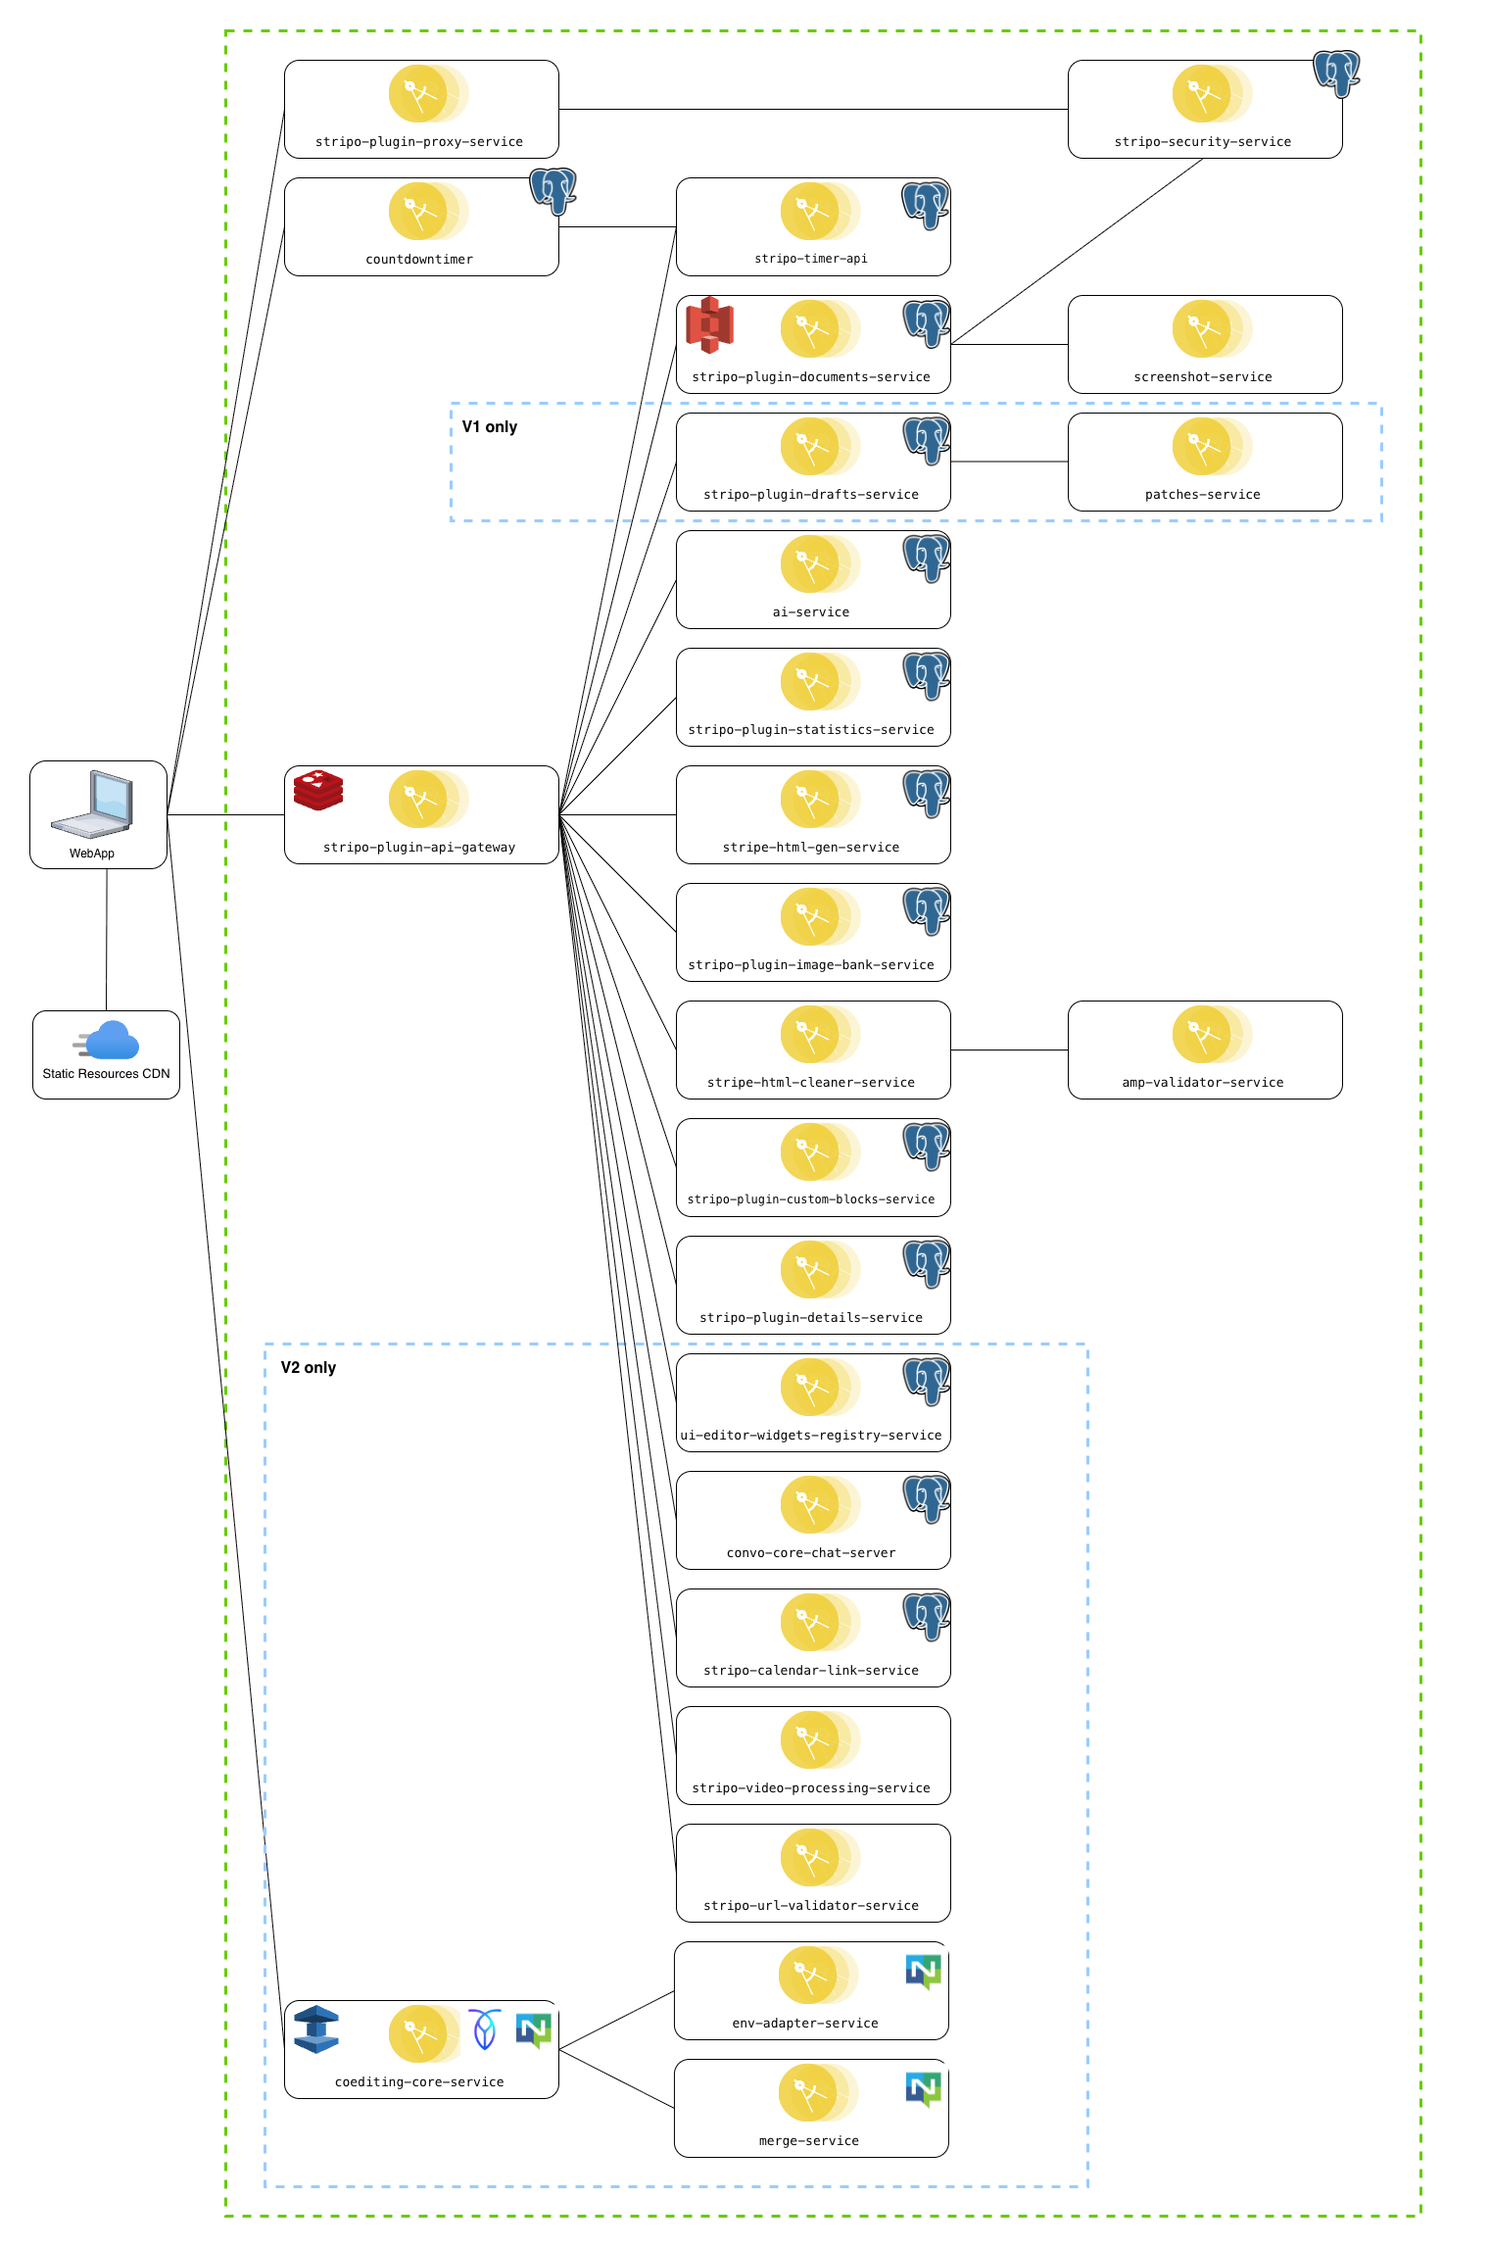
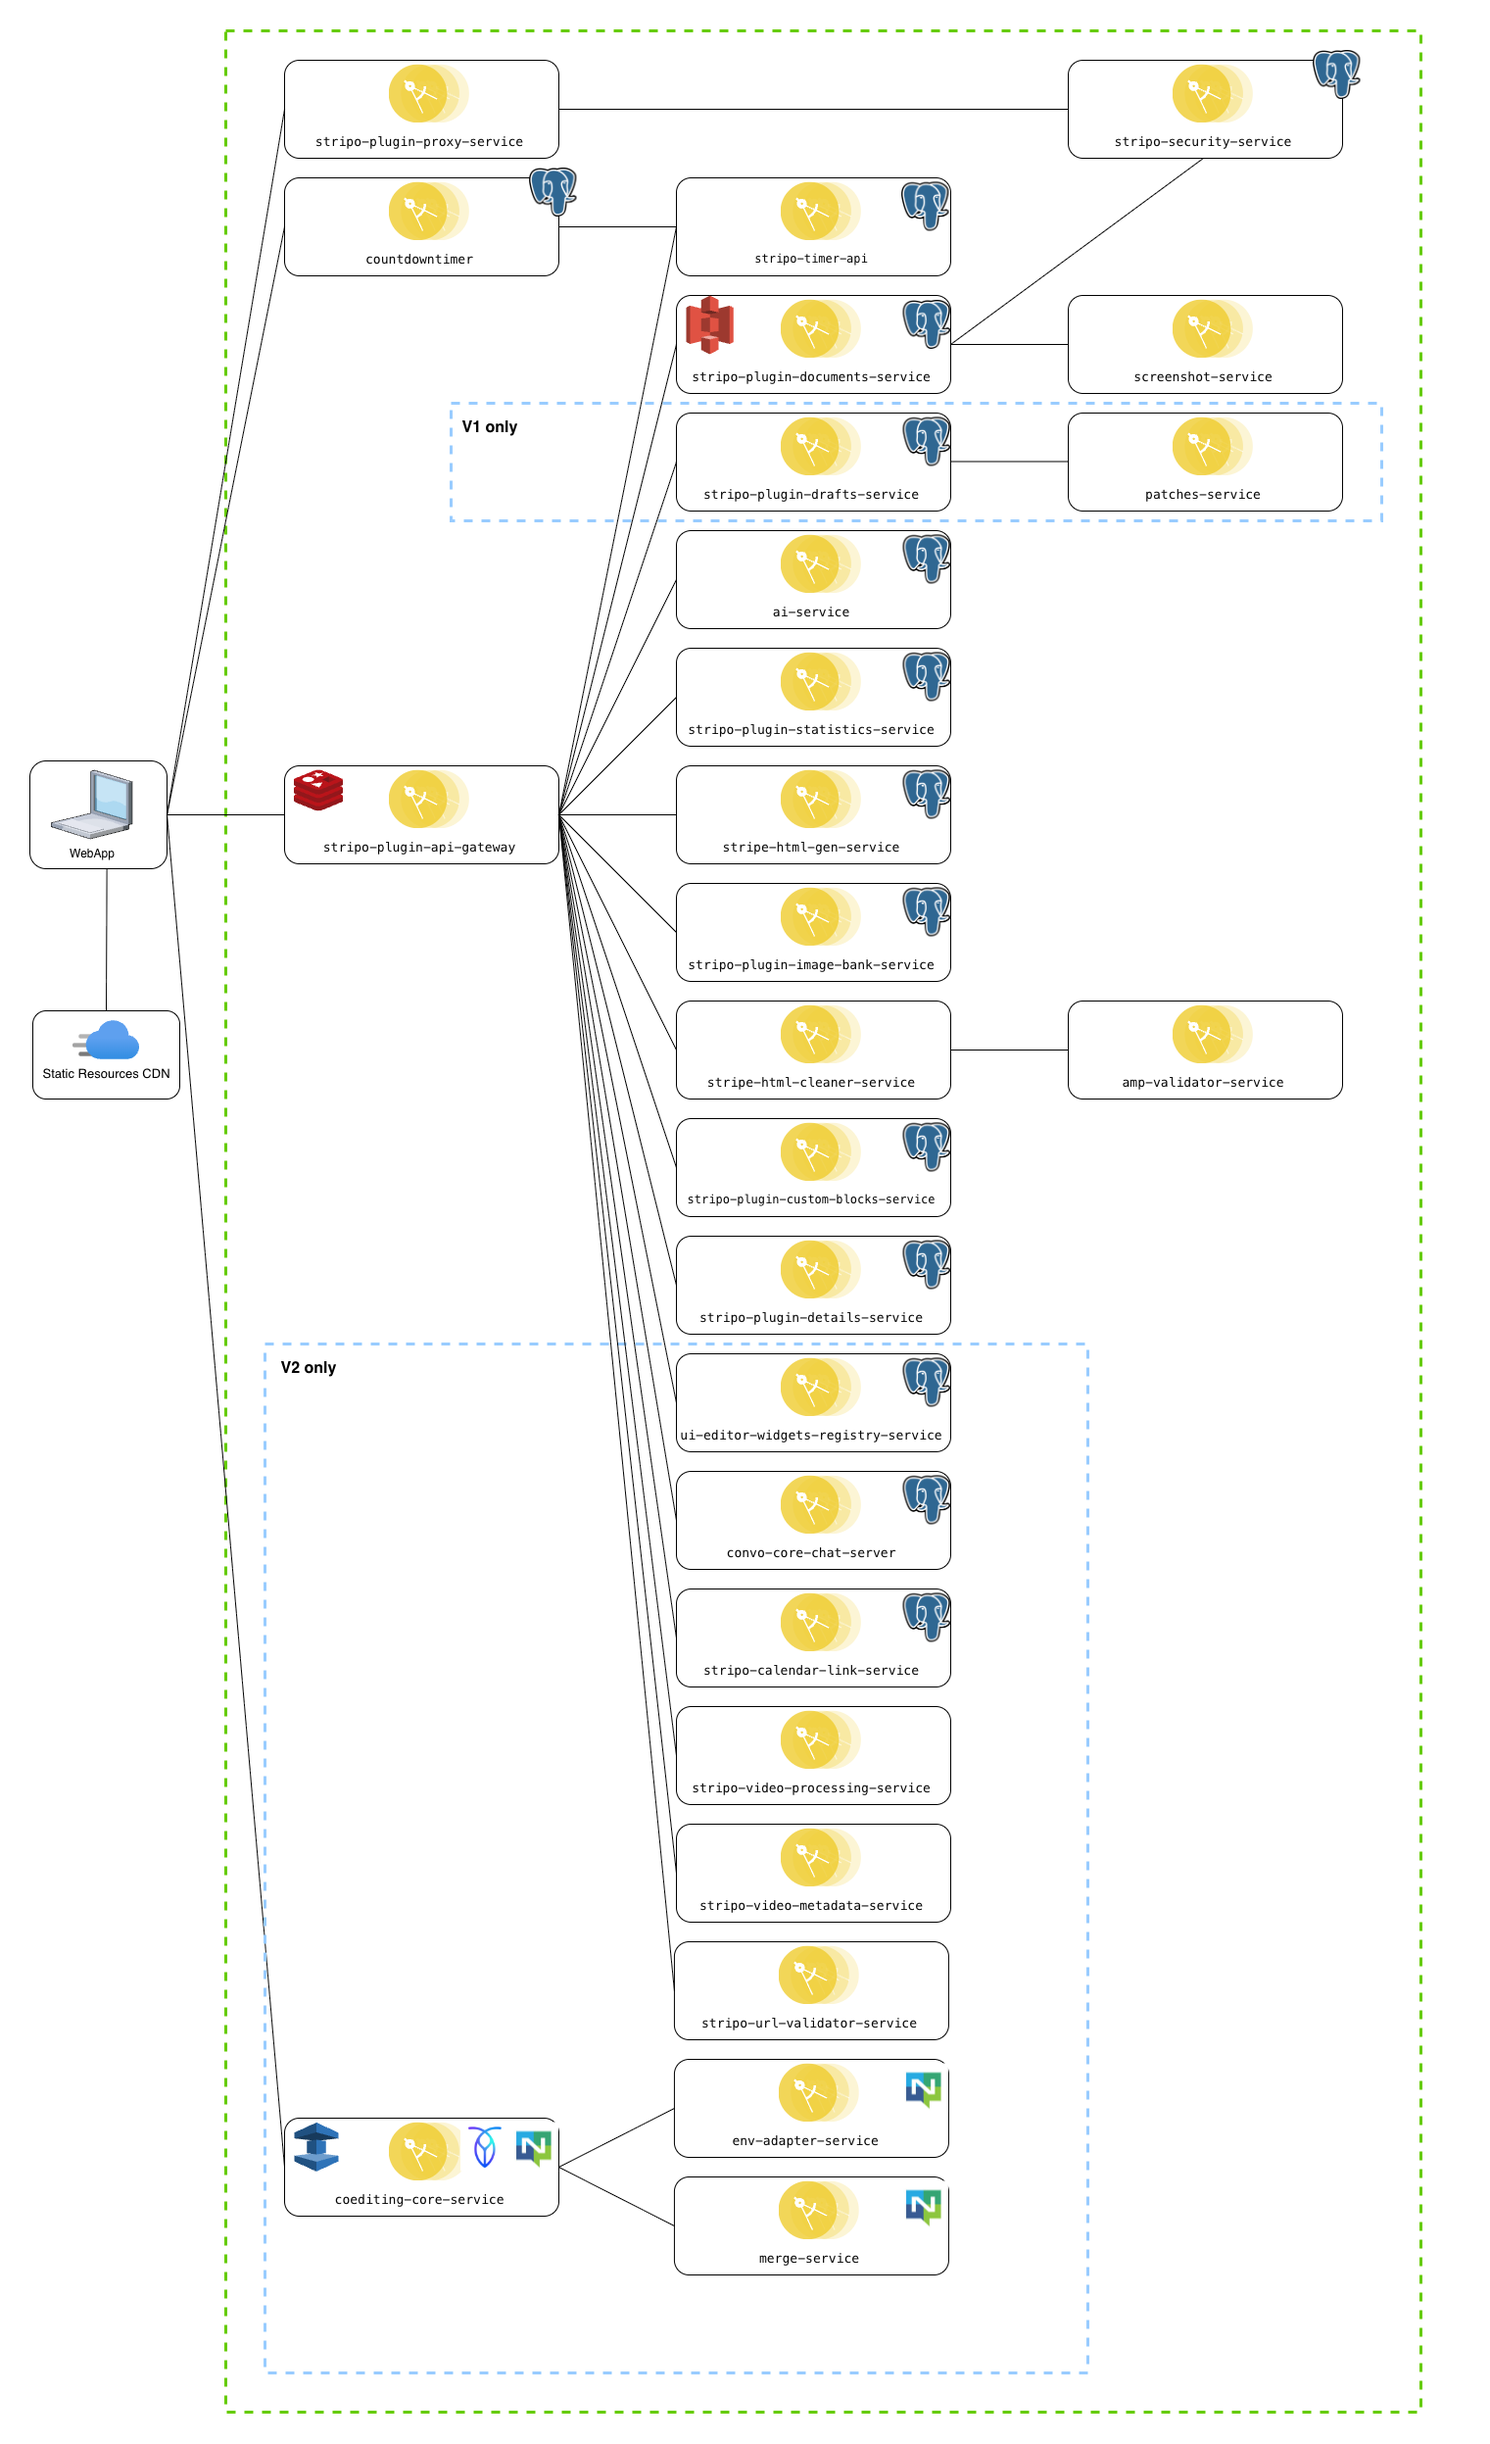
ED-9180 Add stripo-video-metadata-service for enterprise video link previews
https://ardas.atlassian.net/browse/ED-9180

Customer install for the required Editor V2 video-link thumbnail service, from release 2.82.1. Release 2.82.0 lists the service but its api-gateway image has no route.

diff --git a/README.md b/README.md
@@ -57,6 +57,9 @@
      - [Configure the URL Validator Service](#configure-the-url-validator-service)
      - [Route the API Gateway for the URL Checker](#route-the-api-gateway-for-the-url-checker)
      - [Open URL Checker in the Editor](#open-url-checker-in-the-editor)
+   - [Step 15: Configure Video link previews (for V2 only)](#step-15-configure-video-link-previews-for-v2-only)
+     - [Configure the Video Metadata Service](#configure-the-video-metadata-service)
+     - [Route the API Gateway for Video link previews](#route-the-api-gateway-for-video-link-previews)
 6. [Testing](#testing)
    - [Stripo Editor V1](#stripo-editor-v1)
    - [Stripo Editor V2](#stripo-editor-v2)
@@ -89,7 +92,7 @@ The Stripo ecosystem consists of several key components, each playing a crucial 
 
 ## Microservices Architecture Overview
 
-The Plugin infrastructure is composed of 22 microservices, each containerized using Docker. These Docker images are hosted in Stripo's Docker Hub repository. Enterprise plan partners are granted read-only access to this repository, allowing them to download the required images with specific versions when they choose to host the Plugin Backend on their own servers.
+The Plugin infrastructure is composed of 26 microservices, each containerized using Docker. These Docker images are hosted in Stripo's Docker Hub repository. Enterprise plan partners are granted read-only access to this repository, allowing them to download the required images with specific versions when they choose to host the Plugin Backend on their own servers.
 
 ### Microservice Dependencies
 
@@ -130,6 +133,7 @@ The table below outlines the current microservices, their roles, and their requi
 | **stripo-calendar-link-service**        | Generates "Add to calendar" links (Google Calendar, Outlook, Apple/ICS, Yahoo) for date-related blocks. | false        | false           | true            |
 | **stripo-video-processing-service**     | Optional. Play-in-email for the Video block: upload an MP4; the editor generates a poster and an animated GIF (play-button overlay) as fallback. | false        | false           | false           |
 | **stripo-url-validator-service**        | Optional. URL Checker for Editor V2: checks links and image URLs from the email (HTTP status, redirects, shorteners, slow pages, and Google Web Risk when the customer sets a key). | false        | false           | false           |
+| **stripo-video-metadata-service**       | Required for Editor V2. Resolves a thumbnail and a title for a video link (YouTube, Vimeo, TikTok, Loom, and others). The Video block does not save a new link without it. | false        | false           | true            |
 
 ### Notes:
 
@@ -1373,6 +1377,85 @@ The control that opens the mode is part of the host application, not of the plug
 Deploy this service and set `service.urlvalidator.url` before users open the mode. Without the service, local checks still run and the server check fails.
 
 See [URL Checker](https://plugin.stripo.email/editor-configuration/url-checker).
+
+### Step 15: Configure Video link previews (for V2 only)
+
+The Video block in **Stripo Editor V2** asks `stripo-video-metadata-service` for the thumbnail and the title of a video link (YouTube, Vimeo, TikTok, Loom, and others). This service is **required**, from plugin release **2.82.1**. It is not Play-in-email. Play-in-email is the separate, optional `stripo-video-processing-service` (Step 13).
+
+Release **2.82.0** already lists this service, but its api-gateway image does not contain the route. If you installed 2.82.0, upgrade to **2.82.1** before turning the service on. On 2.82.0 a new video link shows **Video not found**.
+
+Without this service, entering a video link shows **Video not found** and the link is not written into the email. Pictures already saved in existing emails stay as they are.
+
+The service needs **no PostgreSQL database** and **no token issued by Stripo**. It uses the same standalone Redis as the rest of the stack (not Redis Cluster). It does need **your own YouTube Data API key**. While that key is empty the pod does not become ready, and the editor shows the same **Video not found** message.
+
+It is listed in `./resources/helm/manage_charts.sh` but **commented out by default**. Set the key first, then uncomment `"stripo-video-metadata-service"`. An empty key keeps the pod unready, and `rollout status` would stop the rest of the script. Then run the script as in [Step 8](#step-8-deploy-microservices).
+
+Do **not** expose this service on Ingress or HTTPRoute. In plugin mode it permits all requests and trusts the api-gateway, so it must stay reachable only inside the cluster.
+
+If the cluster enforces NetworkPolicy, allow ingress only from the api-gateway. A cluster that does not enforce NetworkPolicy ignores this object.
+
+```yaml
+apiVersion: networking.k8s.io/v1
+kind: NetworkPolicy
+metadata:
+  name: stripo-video-metadata-service
+spec:
+  podSelector:
+    matchLabels:
+      app.kubernetes.io/name: stripo-video-metadata-service
+  policyTypes: [Ingress]
+  ingress:
+    - from:
+        - podSelector:
+            matchLabels:
+              app.kubernetes.io/name: stripo-plugin-api-gateway
+      ports:
+        - port: 8080
+```
+
+#### Configure the Video Metadata Service
+
+Set Redis and your YouTube Data API key in `charts/stripo-video-metadata-service.yaml`.
+
+```yaml
+env:
+  - name: JAVA_TOOL_OPTIONS
+    value: -Xss256k -Xms128m -Xmx512m -XX:ReservedCodeCacheSize=128M -Djava.net.preferIPv4Stack=true
+
+configmap:
+  enabled: true
+  extraScrapeConfigs:
+    application.properties: |
+      logging.level.root=INFO
+      redisson.cache.url=redis://redis:6379
+      redisson.cache.password=test
+      redisson.cache.authorized=true
+      redisson.ratelimits.url=redis://redis:6379
+      redisson.ratelimits.password=test
+      redisson.ratelimits.authorized=true
+      video-metadata.youtube.api-key=
+```
+
+| Property | Description |
+| --- | --- |
+| `redisson.cache.url` | Standalone Redis for the thumbnail cache (`redis://redis:6379` in this repo). Not Redis Cluster. |
+| `redisson.ratelimits.url` | Same Redis. The plugin install does not apply account rate limits, but the process still connects to this client. Use the same password as `redisson.cache`. |
+| `redisson.*.password` / `redisson.*.authorized` | Match your Redis. The example values use the same `test` password as the other charts. |
+| `video-metadata.youtube.api-key` | Required. Your own YouTube Data API key. While it is empty the pod does not become ready, and a new video link shows **Video not found**. Stripo does not supply this key for a self-hosted install. |
+
+Requests 750Mi and 50m CPU, limits 1300Mi and 1 CPU. The Java heap stays `-Xmx512m`. Autoscaling in this chart is off (1 pod). The service listens on port `8080` and exposes health probes on `8081`.
+
+#### Route the API Gateway for Video link previews
+
+Add one property to the `configmap` section of `charts/stripo-plugin-api-gateway.yaml`. Set the image tags of `stripo-plugin-api-gateway` and `stripo-video-metadata-service` from release **2.82.1** or newer, then upgrade the gateway:
+
+```properties
+service.videometadata.url=http://stripo-video-metadata-service:8080
+```
+
+The public path is `/api/v1/video-metadata/api/**`. The gateway image in **2.82.1** includes that route. The gateway image in **2.82.0** does not, so it ignores this property. Both pods can look healthy while a new video link still shows **Video not found**.
+
+There is no editor initialization flag for this service. After the pod is ready and the gateway routes to it, the Video block uses it for every new video link.
 
 ## Testing
 

diff --git a/docs/migration.md b/docs/migration.md
@@ -2,6 +2,39 @@
 
 This document is designed to assist you in migrating your Stripo environment to the latest release version.
 
+## Update as of October 19, 2026
+
+Applies from **Stripo Plugin V2 release 2.82.1**. There is no separate initialization flag.
+
+### Key Changes
+
+- Added **stripo-video-metadata-service**. The editor asks it for the thumbnail and the title of a video link. **Stripo Editor V2 only.** Required for the Video block. This is not Play-in-email (`stripo-video-processing-service`).
+- Without this service, entering a video link shows **Video not found** and the link is not saved. Pictures already stored in existing emails stay as they are.
+- The customer's own YouTube Data API key is required (`video-metadata.youtube.api-key`). Stripo does not supply a shared key for a self-hosted install. While the key is empty the pod does not become ready.
+- **No new PostgreSQL database.** Shared **standalone** Redis (not Cluster). The process connects to both the cache client and the rate-limit client.
+- Do **not** expose this service via Ingress or HTTPRoute.
+- The api-gateway image in release **2.82.1** contains the video-metadata route. Release **2.82.0** already lists `stripo-video-metadata-service`, but its api-gateway image does not forward the request. On 2.82.0 a new video link shows **Video not found**. Upgrade to **2.82.1** (or newer). Do not stay on 2.82.0.
+
+### Action Required
+
+Follow [Step 15: Configure Video link previews](https://github.com/stripoinc/stripo-plugins-helm-example/blob/main/README.md#step-15-configure-video-link-previews-for-v2-only). In short:
+
+1. **Update the Helm repository** — chart `stripo-video-metadata-service` **1.0.0**:
+
+   ```shell
+   helm repo update stripo
+   ```
+2. **Set your YouTube Data API key** in `charts/stripo-video-metadata-service.yaml` (`video-metadata.youtube.api-key`). Set both Redis clients to your Redis. Do not add a database.
+3. **Uncomment** `"stripo-video-metadata-service"` in `resources/helm/manage_charts.sh` and deploy. The line stays commented in this repo so an empty key does not stop the rest of the install.
+4. **Point the api-gateway at it** and set both image tags from release **2.82.1** or newer (`stripo-plugin-api-gateway` and `stripo-video-metadata-service`). If you already installed **2.82.0**, upgrade to **2.82.1**. The 2.82.0 gateway image does not contain this route.
+
+   ```properties
+   service.videometadata.url=http://stripo-video-metadata-service:8080
+   ```
+
+   > Easy to miss: the 2.82.0 gateway ignores this property. The pods look healthy and a new video link still shows **Video not found**.
+5. Restrict ingress to the api-gateway if the cluster enforces NetworkPolicy (Step 15).
+
 ## Update as of October 12, 2026
 
 Applies from **Stripo Plugin V2 release 2.81.0**.
